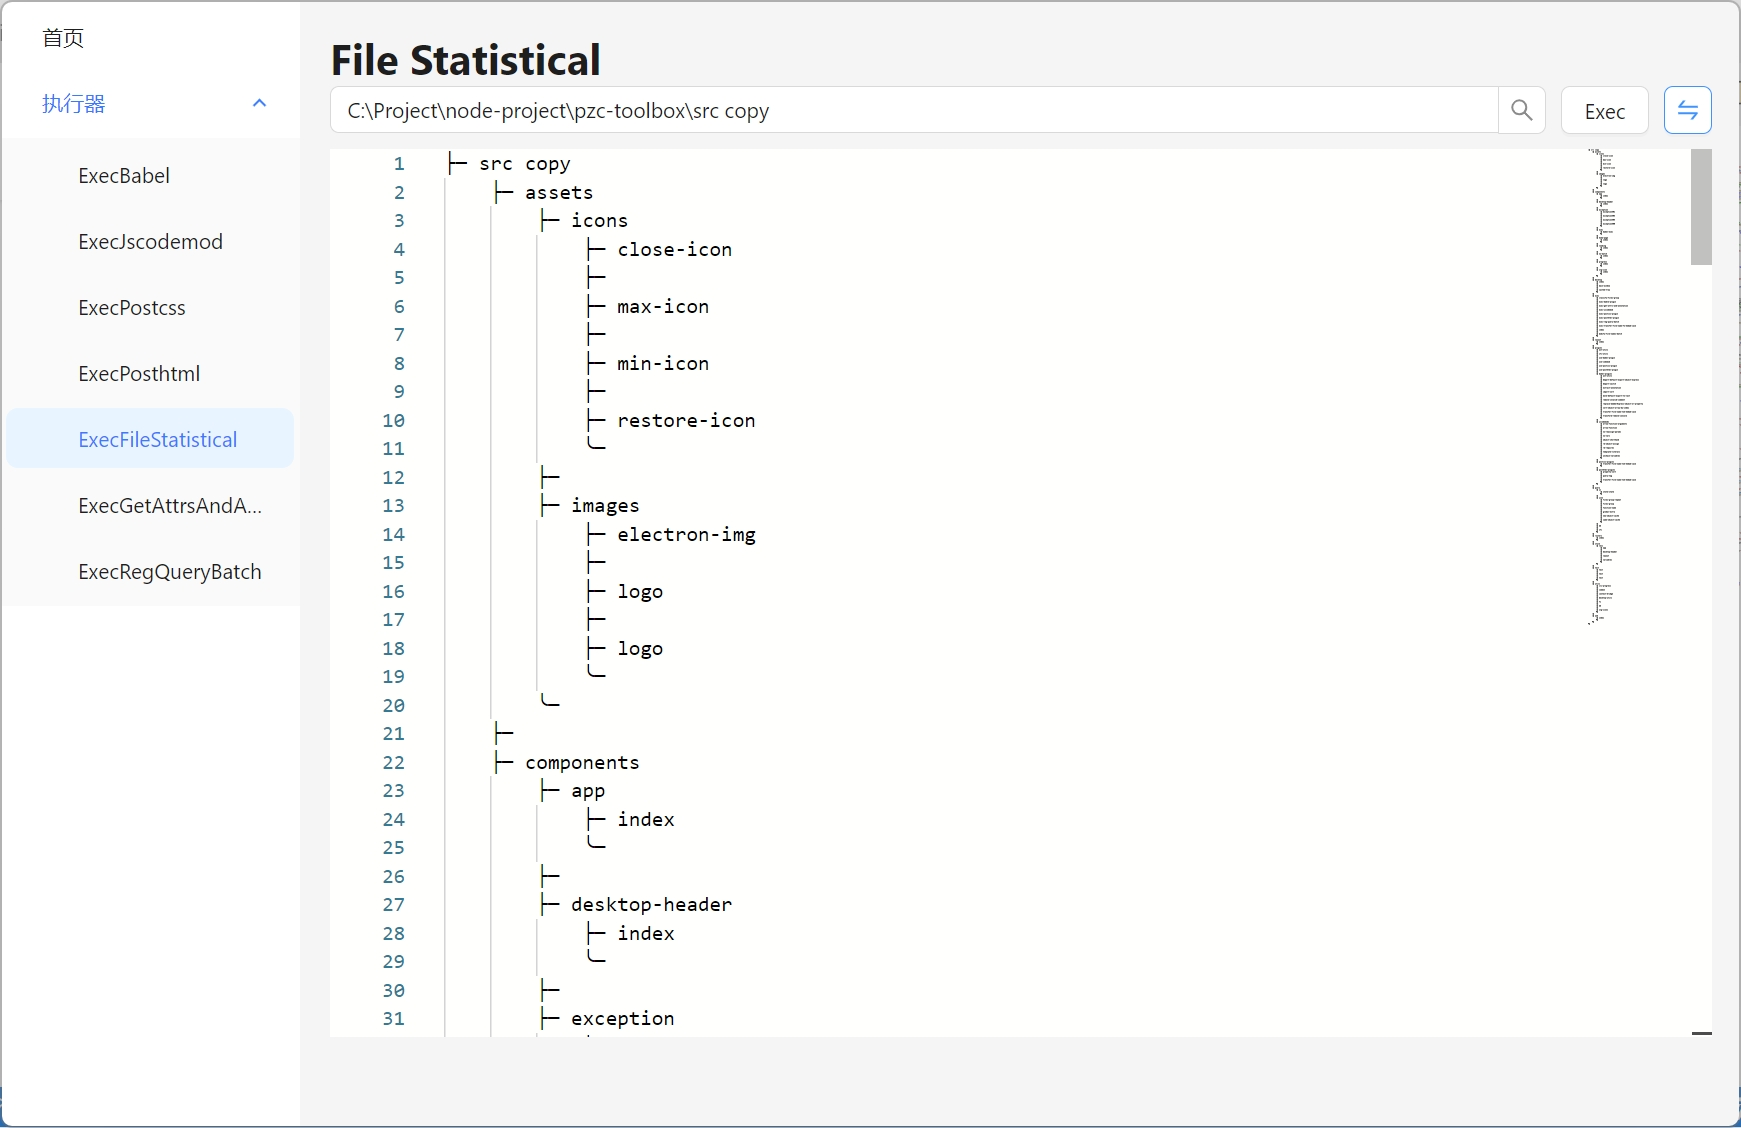
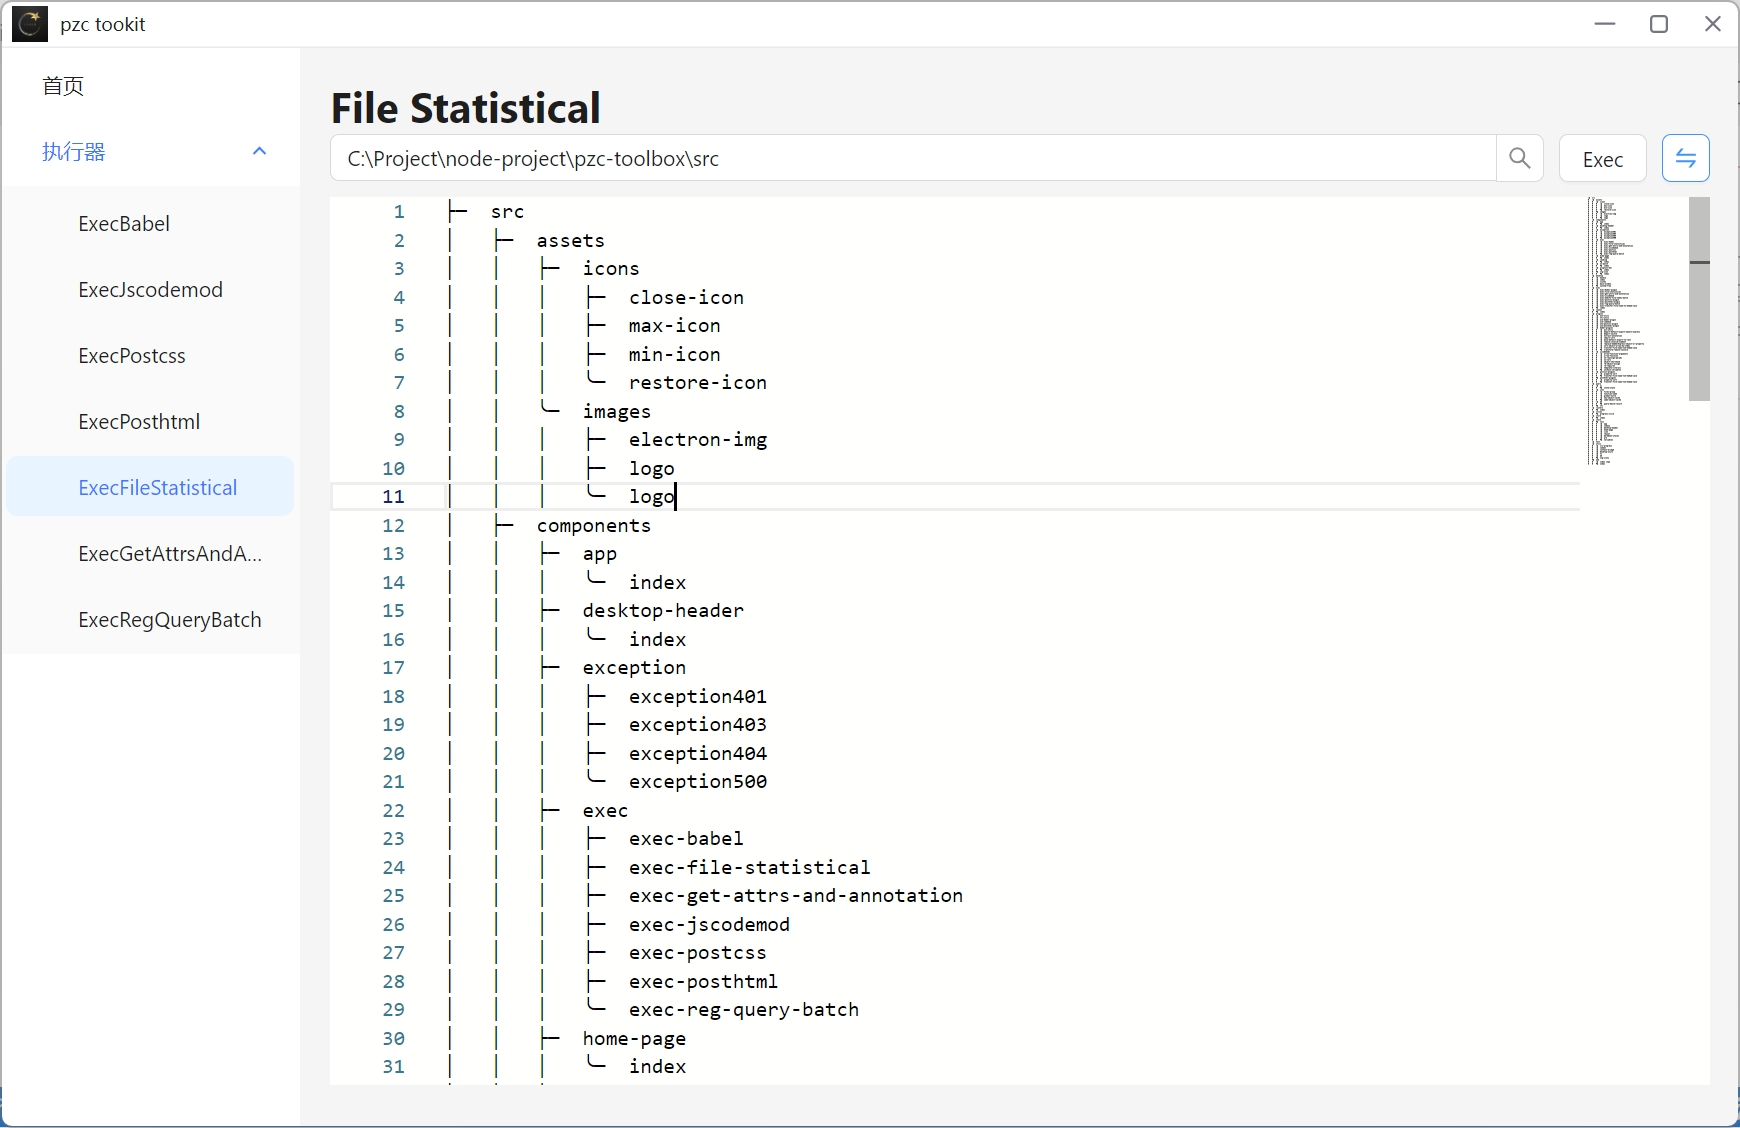
docs(md): 文档说明变更

diff --git a/README.md b/README.md
@@ -76,57 +76,77 @@ npm i
 
 ## 目录结构(部分)说明
 ```
-pzc-toolbox                                             //
-├─ src                                      ****            //
-│  ├─ exec                                              //执行器集合
-│  │  ├─ exec-file-statistical.ts                       //文件信息统计
-│  │  ├─ exec-bable-plugin.ts                           //执行babel插件
-│  │  ├─ exec-get-attrs-and-annotation.ts               //获取项目注释
-│  │  ├─ exec-jscodemod.ts                              //执行jscodemode
-│  │  ├─ exec-postcss-plugin.ts                         //执行postcss
-│  │  ├─ exec-posthtml-plugin.ts                        //posthtml
-│  │  ├─ exec-reg-query-batch.ts                        //执行正则批量查询
-│  │  ├─ exec-transfer-file-name-To-kebab-case.ts       //文件名驼峰转化
-│  │  └─ index.ts                                       //方法集合
-│  ├─ plugins                                           //插件集合
-│  │  ├─ babel-plugins                                  //babel插件
-│  │  │  ├─ ast-utils.ts                                //babel工具方法集合
-│  │  │  ├─ depart-default-export-object-express.ts     //重置导出
-│  │  │  ├─ depart-switch.ts                            //分离switch
-│  │  │  ├─ extract-annotation.ts                       //提取注释
-│  │  │  ├─ import-sort.ts                              //导入排序
-│  │  │  ├─ move-default-export-to-last.ts              //移动默认导出
-│  │  │  ├─ remove-invalid-comment.ts                   //移除包含this的无效注释
-│  │  │  ├─ replace-memberExpress-object-or-property.ts //替换表达式的调用对象或者调用属性
-│  │  │  ├─ sort-object-array-by-index.ts               //对象数组按index排序
-│  │  │  ├─ transfer-file-name-tok-kebab-case.ts        //引用驼峰转化
-│  │  │  └─ transform-remove-console.ts                 //移除打印
-│  │  ├─ jscodemods                                     //codemode集合
-│  │  │  ├─ arrow-function-arguments.ts                 //简化箭头参数
-│  │  │  ├─ arrow-function.ts                           //转化箭头函数
-│  │  │  ├─ no-reassign-params.ts                       //不使用函数参数同一命名
-│  │  │  ├─ no-vars.ts                                  //移除全局定义
-│  │  │  ├─ object-shorthand.ts                         //简化对象属性
-│  │  │  ├─ rm-object-assign.ts                         //移除对象注册
-│  │  │  ├─ rm-requires.ts                              //移除无效请求
-│  │  │  ├─ template-literals.ts                        //转化模板字符串
-│  │  │  └─ unchain-variables.ts                        //断开链式定义
-│  │  ├─ postcss-plugins                                //postcss插件集合
-│  │  │  └─ transfer-file-name-tok-kebab-case.ts        //引用驼峰转化
-│  │  ├─ posthtml-plugins                               //posthtml插件集合
-│  │  │  ├─ property-sort.ts                            //属性排序
-│  │  │  ├─ query-tag.ts                                //查询标签
-│  │  │  └─ transfer-file-name-tok-kebab-case.ts        //引用驼峰转化
-│  │  ├─ sfc-utils.ts                                   //@vue/compiler-sfc封装方法集合
-│  │  ├─ use-babel-plugin.ts                            //Babel插件使用包装
-│  │  ├─ use-codemod.ts                                 //codemod使用包装
-│  │  ├─ use-postcss-plugin.ts                          //postcss使用包装
-│  │  ├─ use-posthtml-plugin.ts                         //posthtml使用包装
-│  ├─ query                                             //查询结果和文件输出
-│  └─ utils                  ****                           //查询结果
-│     ├─ cli-progress.ts                                //进度条
-│     ├─ common.ts                                      //通用方法
-│     ├─ fs.ts                       ****               //文件系统相关
-│     ├─ md.ts                                          //文档相关
-└─ tsconfig.json                                        //ts配置
+├─ src
+    ├─ assets
+    |   ├─ icons
+    |   |   ├─ close-icon
+    |   |   ├─ max-icon
+    |   |   ├─ min-icon
+    |   |   ├─ restore-icon
+    |   |   ╰─ index.ts // 索引文件，用于导出所有图标
+    |   ├─ images
+    |   |   ├─ electron-img
+    |   |   ├─ logo
+    |   |   ╰─ index.ts // 索引文件，用于导出所有图片资源
+    |   ╰─ index.ts // 索引文件，用于导出所有资源
+    ├─ components
+    |   ├─ app
+    |   |   ╰─ index.vue // 应用入口组件
+    |   ├─ desktop-header
+    |   |   ╰─ index.vue // 桌面头部组件
+    |   ├─ exception
+    |   |   ├─ exception401.vue
+    |   |   ├─ exception403.vue
+    |   |   ├─ exception404.vue
+    |   |   ├─ exception500.vue
+    |   |   ╰─ index.ts // 异常页面索引
+    |   ├─ exec
+    |   |   ├─ exec-babel.vue // Babel执行组件
+    |   |   ├─ exec-file-statistical.vue // 文件统计组件
+    |   |   ╰─ ...
+    |   ├─ home-page
+    |   |   ╰─ index.vue // 首页组件
+    |   ╰─ ...
+    ├─ desktop
+    |   ├─ handle // **桌面交互处理**
+    |   ├─ index // 桌面入口
+    |   ├─ listen // 监听事件
+    |   ├─ main-window // 主窗口管理
+    |   ╰─ system-tray // 系统托盘
+    ├─ exec
+    |   ├─ exec-babel-plugin.ts // Babel插件执行逻辑
+    |   ├─ exec-file-statistical.ts // 文件统计逻辑
+    |   ├─ exec-get-attrs-and-annotation.ts // 获取属性和注解逻辑
+    |   ├─ exec-jscodemod.ts // JS代码修改逻辑
+    |   ├─ exec-modify-file-names-batch.ts // 批量修改文件名逻辑
+    |   ├─ exec-postcss-plugin.ts // PostCSS插件执行逻辑
+    |   ├─ exec-posthtml-plugin.ts // PostHTML插件执行逻辑
+    |   ├─ exec-reg-query-batch.ts // 正则批量查询逻辑
+    |   ├─ exec-transfer-file-name-To-kebab-case.ts // 文件名转换逻辑
+    |   ╰─ index.ts // 执行逻辑索引
+    ├─ layout
+    |   ╰─ index.vue // 布局组件
+    ├─ plugins
+    |   ├─ ast-utils.js // AST工具方法
+    |   ├─ sfc-utils.js // SFC工具方法
+    |   ├─ use-babel-plugin.js // Babel插件使用包装
+    |   ├─ use-codemod.js // Codemod使用包装
+    |   ├─ use-postcss-plugin.js // PostCSS插件使用包装
+    |   ├─ use-posthtml-plugin.js // PostHTML插件使用包装
+    |   ╰─ ...
+    ├─ query
+    |   ├─ js // JavaScript查询
+    |   ├─ json // JSON查询
+    |   ├─ md // Markdown查询
+    |   ╰─ sfc // SFC查询
+    ├─ routers
+    |   ╰─ index.js // 路由配置
+    ├─ slices // 状态管理切片
+    ├─ store // 状态管理
+    ├─ style // 样式目录
+    ├─ test // 测试目录
+    ├─ utils // 工具函数
+    ├─ web // Web特定逻辑
+    ╰─ index.js // 入口文件
+╰─ package.json // 项目配置文件
 ```
